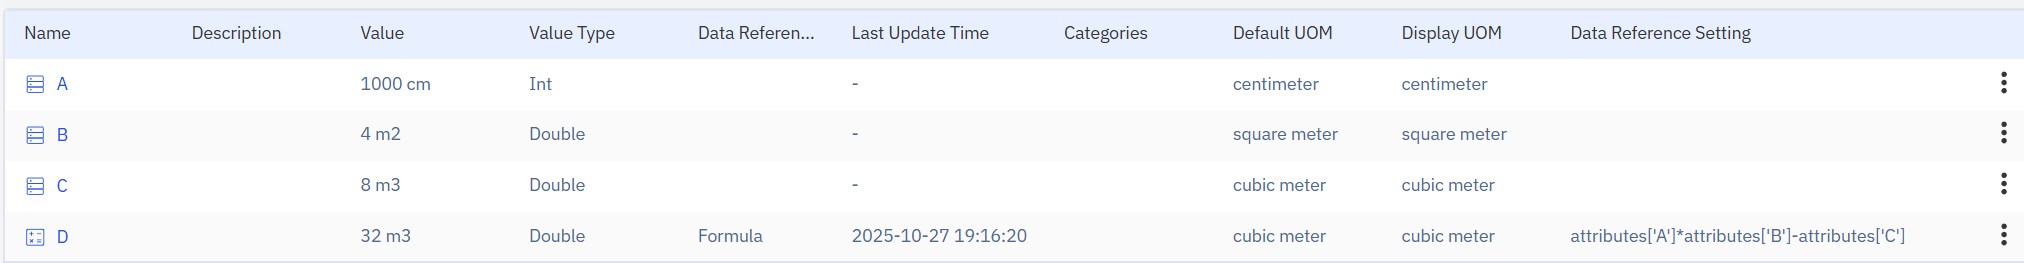
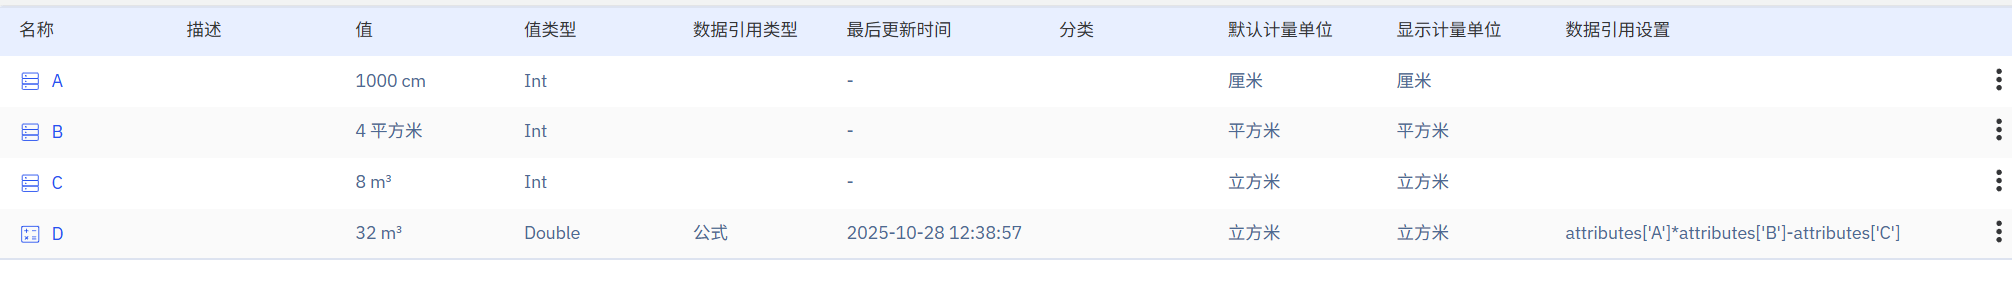
添加中文uom文档图片

diff --git a/i18n/en/docusaurus-plugin-content-docs/current/06-advanced/05-unit-of-measure.md b/i18n/en/docusaurus-plugin-content-docs/current/06-advanced/05-unit-of-measure.md
@@ -2,10 +2,61 @@
 title: Units of Measurement
 ---
 
-In IoT and industrial scenarios, each data point collected may use different units of measurement (UoM). Even if unit conversion is performed during ingestion, due to variations in project timelines and other factors, inconsistencies in units may still exist in the stored data. Unit conversion is essential to ensure accurate data analysis.
+## Unit of Measurement Management
 
-Because modifying already stored data is not advisable, TDengine IDMP allows you to configure both a storage unit and a display unit for each attribute of an element. Whether for expression-based calculations or for simple display purposes, TDengine IDMP will automatically perform unit conversions based on the storage unit of the data.
+In IoT and industrial scenarios, each collected data point may use different units of measurement (UoM). Even if unit conversion is performed during data ingestion, due to variations in project implementation timelines and other factors, inconsistencies in units may still exist in the stored data. Therefore, to ensure accurate data analysis, unit conversion is essential.
 
-TDengine IDMP comes with a wide range of built-in units, but you can also extend the list as needed.
+Because modifying data already stored in the database is not advisable, TDengine IDMP allows you to configure a unit of measurement for each attribute of an element, as well as a display unit. Whether for expression-based calculations or simple display purposes, IDMP will automatically perform unit conversions based on the storage unit of the data.
 
-UoM is available under **Libraries** in the main menu.
+TDengine IDMP comes with built-in units for mass, length, time, temperature, volume, force, electric current, electric potential, energy, storage, power, molar amount, and more. You can also extend the list as needed.
+
+Unit of measurement management is available under **Libraries** in the main menu. The interface is intuitive and requires no further explanation.
+
+## Units of Measurement and Formula References
+
+The expressions in [formula references](../basic/data-model#公式) can be quite complex. When attributes with configured units of measurement are involved in expression calculations, various scenarios may arise. Below are the handling rules for different situations. To simplify the explanation, we use uppercase letters to represent the quantities involved in calculations, such as A and B, which may represent either an attribute or an intermediate calculation result.
+
+### Addition and Subtraction Operations
+
+For formulas in the form of A + B or A - B:
+1. If A and B belong to different unit of measurement classes (UOM Class), an error will be reported.
+2. If the two quantities belong to the same unit of measurement class but have different units (e.g., one is in watts (W) and the other is in kilowatts (kW)), the second quantity's unit will be converted to match the first quantity's unit.
+3. If one quantity has a unit and the other does not, the quantity without a unit will automatically be converted to have the same unit as the other quantity before calculation. For example, you can add an electric current to a unitless constant.
+
+#### Examples
+For instance, attempting to add two attributes, electric current and electric potential, will result in an error: Operator "+" cannot be applied to values with different UOM class: "Electric Current" and "Electric Potential".
+
+![formula with uom example 1](./formula-uom.jpg)
+
+Another example: consider two attributes Power and Power2, with units W and kW respectively. The formula `Power + Power2` yields a result in W, while the formula `Power2 + Power` yields a result in kW.
+
+![power add power2](./power_add_power2.jpg)
+
+
+### Multiplication and Division Operations
+
+For formulas in the form of A/B or A*B:
+1. Both A and B will be converted to the base unit of their respective unit of measurement class (UOM Class) before calculation.
+2. The "unit of measurement class" of the result can be determined through the combination of these base units, and the "unit of measurement" of the result will be the default unit of the identified "unit of measurement class".
+3. If the unit of measurement class of the multiplication or division result is not defined in the system, an error will be displayed when editing the formula.
+
+#### Examples
+For example, suppose attribute A has unit centimeters (cm), attribute B has unit square meters (m2), and attribute C has unit cubic meters (m3). These involve 3 unit of measurement classes: length, area, and volume. For the formula `A*B-C`, A will first be converted to a value in meters, then multiplied by B to get a result in cubic meters, and finally subtracted from C. As shown below:
+![formula A * B -C](./formula_abcd.png)
+
+Another example: multiplying electric potential by power results in a meaningless unit that doesn't exist in the system, which will trigger an error as shown below:
+
+![uom not defined](./uom_not_defined.png)
+
+### Comparison and Bitwise Operations
+
+Expressions support comparison operators: `=`, `<>`, `>`, `<`, `>=`, `<=`; and bitwise operations: `|` and `&`. The UOM handling rules for quantities on both sides of these operators are as follows:
+1. If both sides have UOM but belong to different UOM Classes, an error will be reported.
+2. If one side has UOM and the other does not, the UOM is ignored.
+3. If both sides have UOM and belong to the same UOM Class, then:
+    * If the UOMs are the same, the operation is performed directly.
+    * If the UOMs are different, the right side's UOM is converted to match the left side's UOM before the operation.
+
+### Functions
+
+If a function is used in an expression, the UOM of the function's result will match the UOM of the function's first parameter. For example, the result of the formula `SIN(A)` will have the same UOM as A.

diff --git a/docs/06-advanced/05-unit-of-measure.md b/docs/06-advanced/05-unit-of-measure.md
@@ -22,13 +22,13 @@ IDMP 已经内置了质量、长度、时间、温度、体积、力、电流、
 3. 如果相加的两个量一个有计量单位一个没有，那么自动将没有计量单位的量转为与另一个量有相同计量单位的量，然后再计算。比如你可以将电流与一个没有单位的常量相加。
 
 #### 示例
-例如试图将电流和电压两个属性相加时报错: Operator "+" cannot be applied to values with different UOM class: "Electric Current" and "Electric Potential"。
+例如试图将电流和电压两个属性相加时会提示错误：“操作符'+'不能应用于不同的计量单位分类:'电流'和'电压'"。
 
-![formula with uom example 1](./formula-uom.jpg)
+![formula with uom example 1](./formula_uom.png)
 
 再例如下面两个属性 Power 和 Power2， 计量单位分别是 W 和 kW。 公式 `Power + Power2` 结果的单位是 W， 公式 `Power2 + Power` 结果的单位是 kW。
 
-![power add power2](./power_add_power2.jpg)
+![power add power2](./formula_add_power2.png)
 
 
 ### 乘除运算
